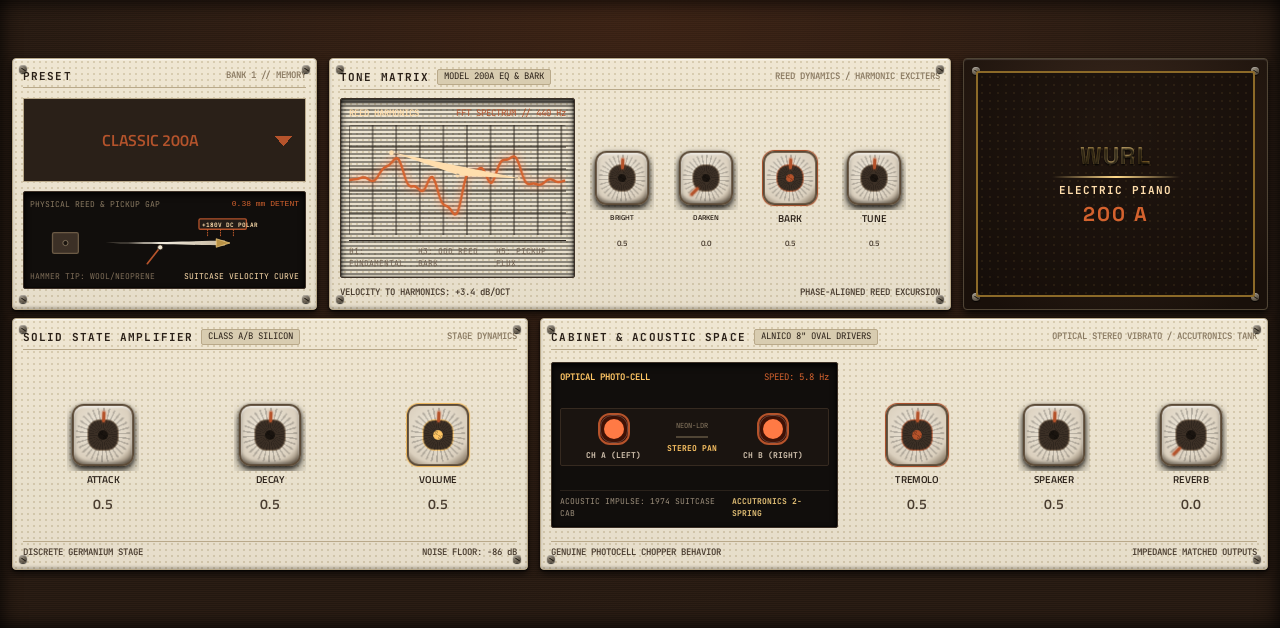
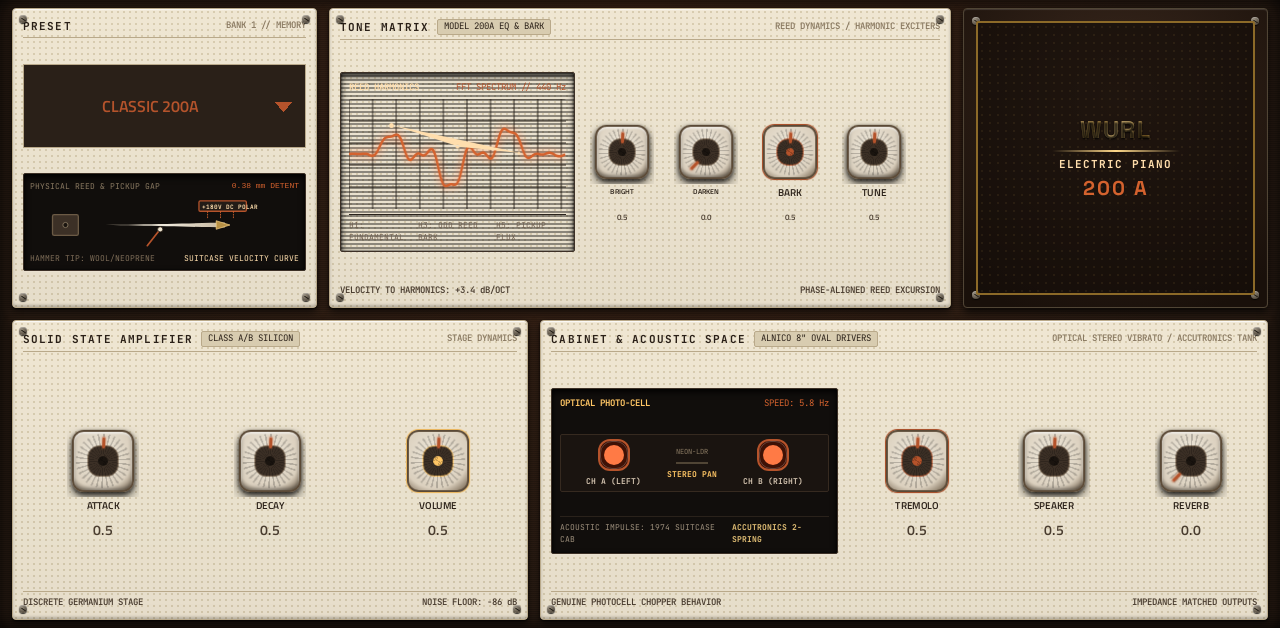
30 screens fill the plugin area (no empty bands above and below)
Rebuilt with the converter's `fill`: 303 (Open303), Aphex, Denis, Elements, Grids, GrooveBank, Hank,
Helm, Hera, Hush One, LibPO32, Marbles (SETUP only), MazeLite, MIDI Player, MonkSynth, Moog
(RaffoSynth: its frame centred), Mr Drums, Mr Hyde, Noisemaker, OB-Xd, PixelWalkers, Plaits, Rampage
(Dual Slope), Rings, Rings FX, SuperArp, Tablor, Verglas, Warps, Wurl. Same controls, parameters and
Q-Link order; only positions moved. Moog's and Noisemaker's hand edits (FILTER switch, BANK, the
shorter scope, design QA moves) carried over. Helm's switch captions now show the parameters' names.

Builds PASSED (offline test), check_skin OK for all 30, screenshots refreshed from the engine's
state. The .so files are the committed ones (only the screens changed). Not on a device yet.

diff --git a/README.md b/README.md
@@ -57,6 +57,9 @@ Use one or the other for this plugin: both register the same plugin (same uid), 
 - New touchscreen page from its Google Stitch design (`design/`): the design's artwork as the background, its own knob art, live names and values, and controls the design left out added in its style (see RESKINNING.md).
 - Presets in MPC's PRESET menu (2026-10-03): its 10 presets are VST programs (vst.json `programs`), so the PRESET
   dropdown in the plugin header, also on the arrangement screen, lists and loads them.
+- **Full-height screen (2026-10-18)**: the panels fill MPC's 1280 × 628 plugin area. The Stitch conversion used to
+  centre the design at the height it had under its own header and footer (MPC draws its own), which left an empty
+  band above and below.
 
 ## Files
 
